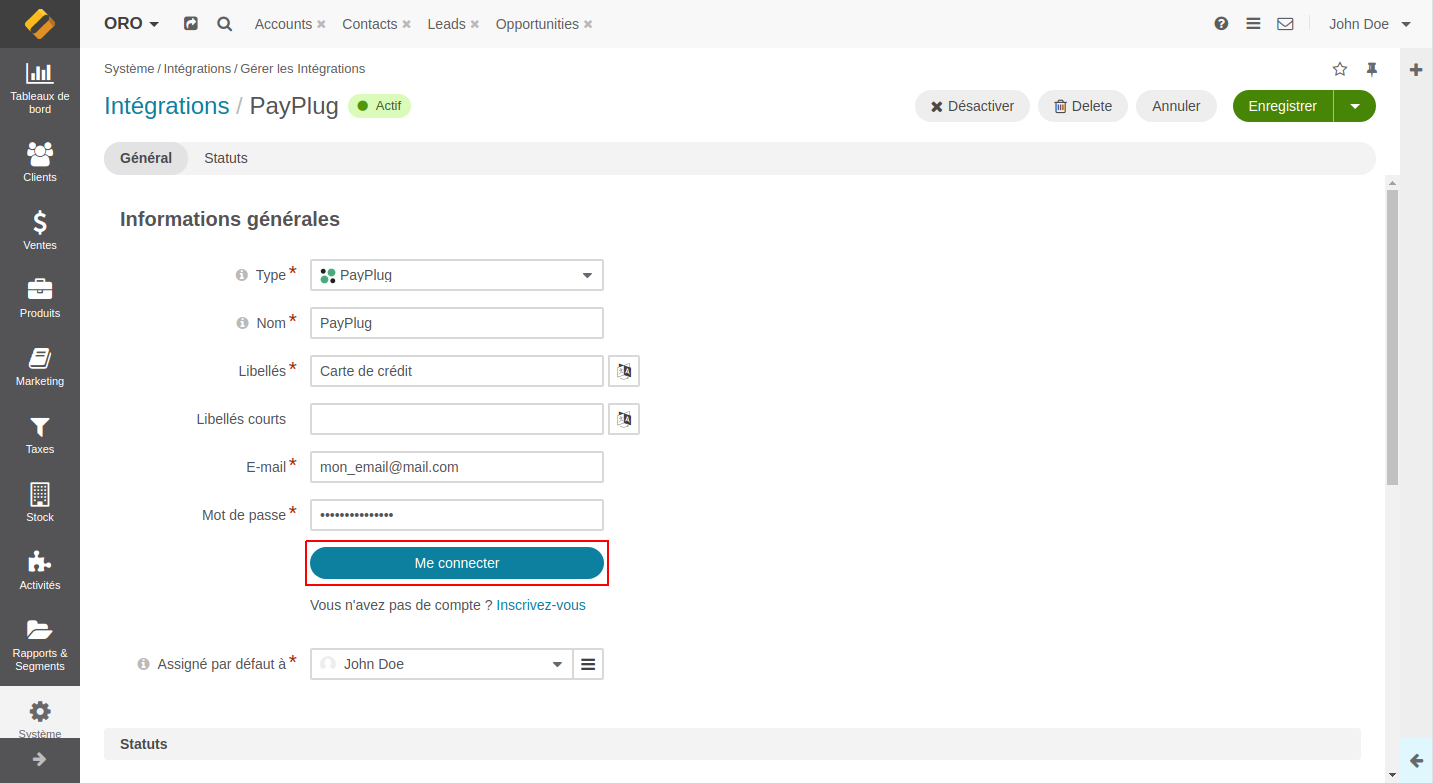
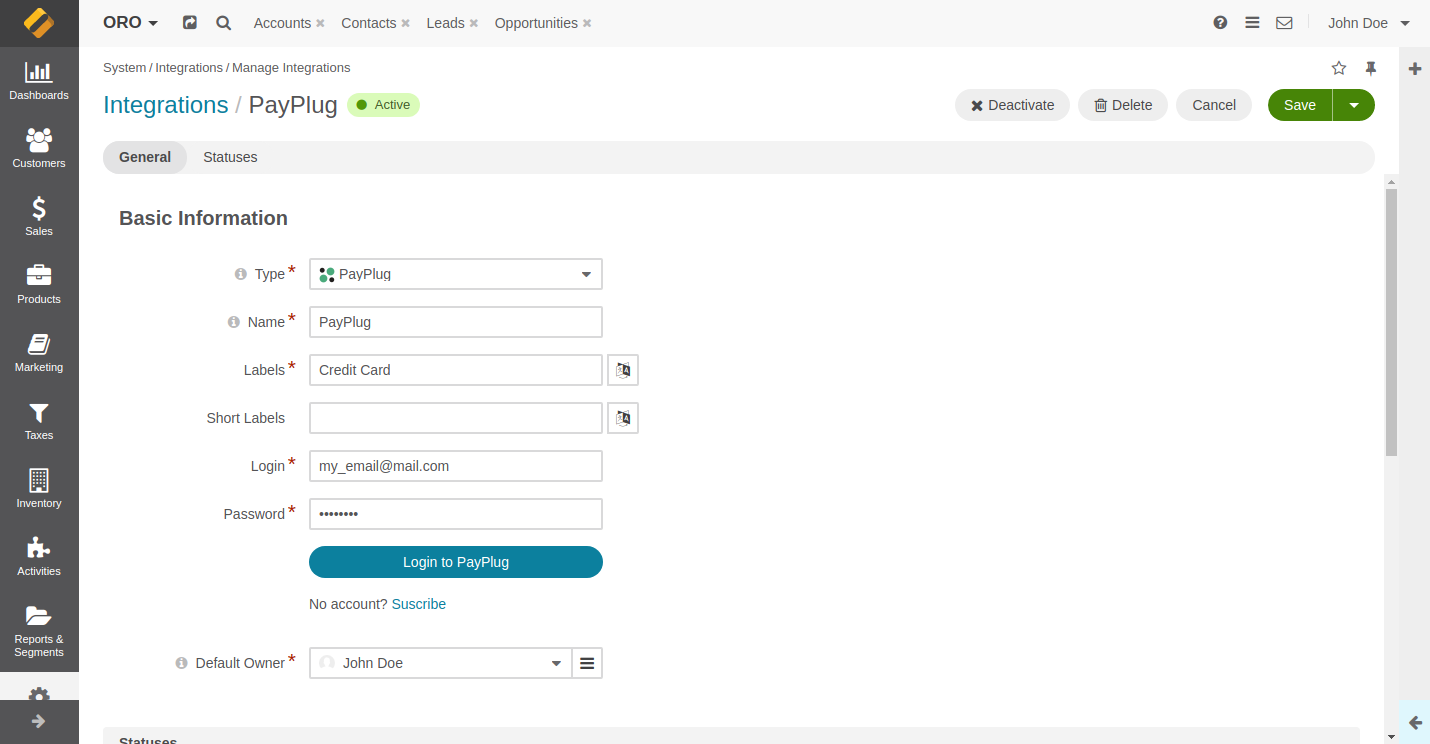
Correctif sur la documentation et screenshots en anglais

diff --git a/docs/installation.md b/docs/installation.md
@@ -70,6 +70,7 @@ You should define :
 * The name of your payment rule (will only be displayed in the administration panel)
 * The order in which your rule should be placed compared to your other rules (1, 2, 3, 11, 23, ...)
 * The currency associated with the rule
+* Payment method configuration by adding PayPlug integration
 
 You can also (optional):
 * Tick "Stop Further Rule Processing", in which case the rules that should apply will not.
@@ -82,6 +83,7 @@ You can also (optional):
 You can obtain more information on a payment processed with PayPlug by clicking on the "Information" button on the payment line in the order recap.
 
 ![PayPlug Payment History](./images/payplug_order_payment_history.png)
+
 ![PayPlug Payment Informations](./images/payplug_order_payment_informations.png)
 
 ## 4 - Refund
